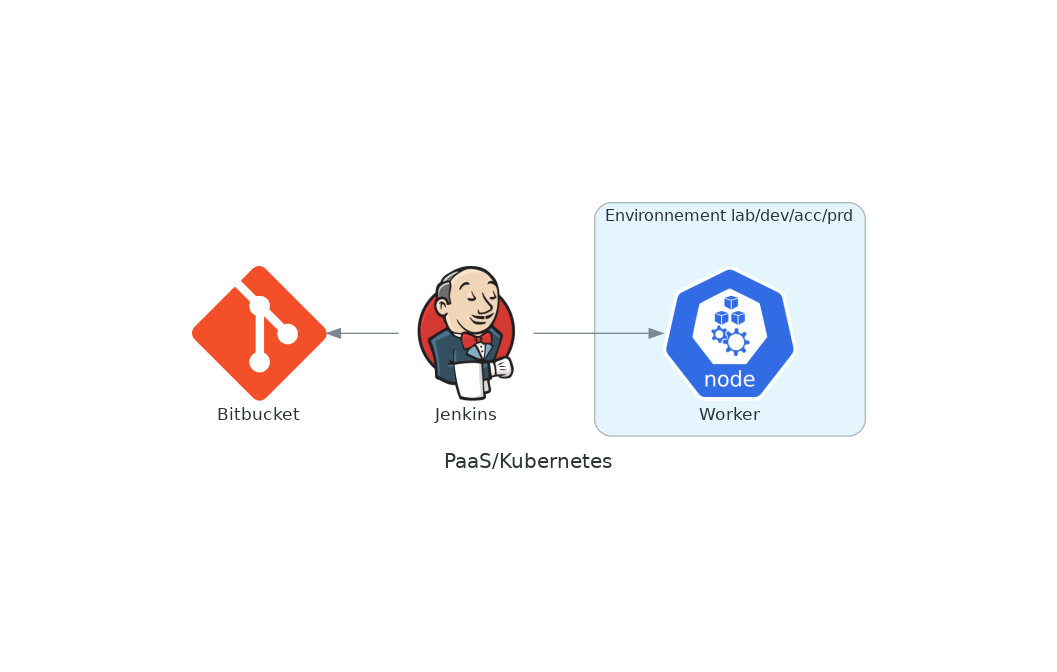
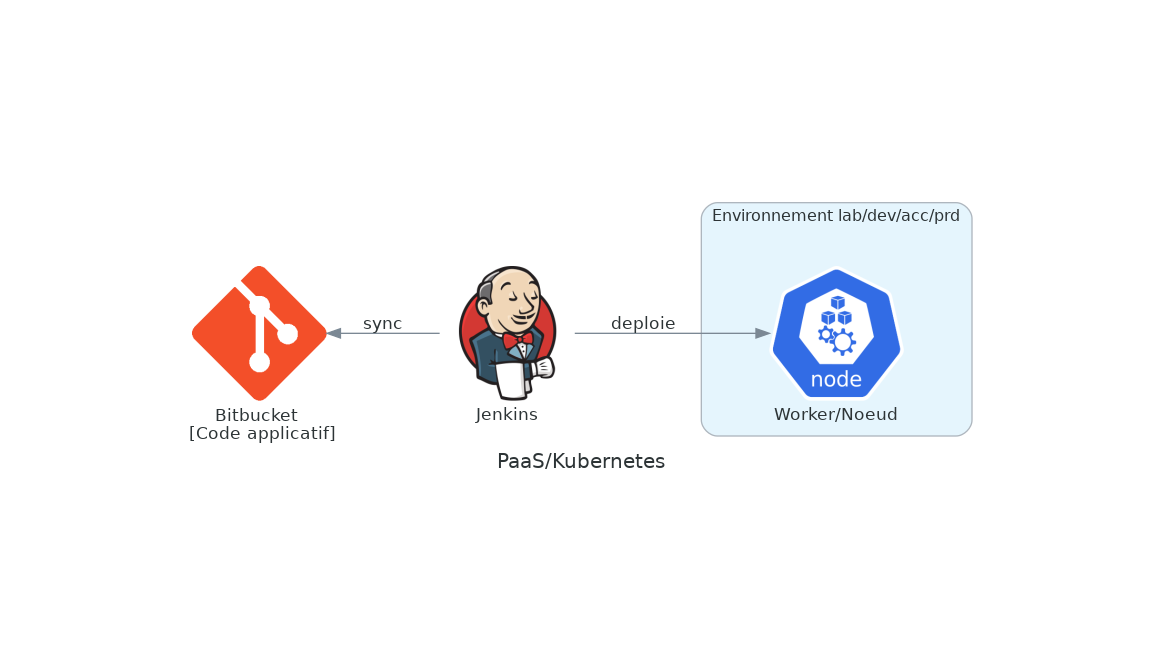
update diagram paas

diff --git a/my-diagrams/my_diagrams/paas.py b/my-diagrams/my_diagrams/paas.py
@@ -1,13 +1,13 @@
-from diagrams import Cluster, Diagram
+from diagrams import Cluster, Diagram, Edge
 from diagrams.k8s.infra import Node
 from diagrams.onprem.ci import Jenkins
 from diagrams.onprem.vcs import Git
 
 with Diagram("PaaS/Kubernetes", show=False, filename="images/paas"):
     jenkins = Jenkins("Jenkins")
-    bitbucket = Git("Bitbucket")
+    bitbucket = Git("Bitbucket \n [Code applicatif]")
 
     with Cluster("Environnement lab/dev/acc/prd"):
-        noeud = Node("Worker")
+        noeud = Node("Worker/Noeud")
     
-    bitbucket << jenkins >> noeud
+    bitbucket << Edge(label="sync") << jenkins >> Edge(label="deploie") >> noeud
